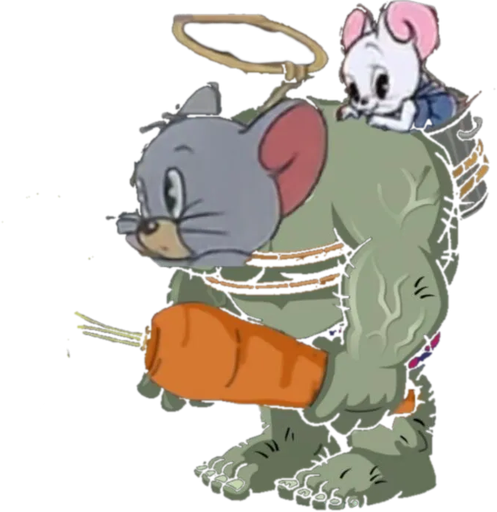
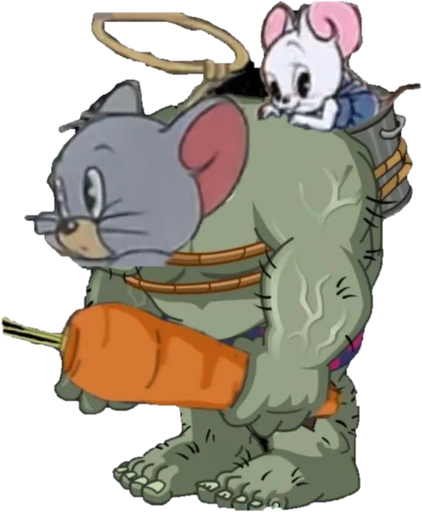
feat: security rockets, ice slow, cleaner boss cutouts

diff --git a/js/systems.js b/js/systems.js
@@ -242,11 +242,12 @@
       }
     } else {
       const hs = (p.hasteT > 0 ? (p.hasteMul || 1.5) : 1) * (p.slowT > 0 ? 0.5 : 1) * (p.stealthT > 0 ? 1.25 : 1);
-      p.x += mx * p.speed * st.speed * hs * dt;
-      p.y += my * p.speed * st.speed * hs * dt;
+      p.x += mx * p.speed * st.speed * hs * (p.slowT > 0 ? 0.6 : 1) * dt;
+      p.y += my * p.speed * st.speed * hs * (p.slowT > 0 ? 0.6 : 1) * dt;
     }
 
     resolveObstacles(g, p, p.r);
+    if (p.slowT > 0) p.slowT -= dt;
     if (p.moving) p.walk += dt * 11 * st.speed;
 
     const ow = D.weapons[p.char.weapon];
@@ -441,6 +442,14 @@
 
       if (e.spawnT > 0.2) continue;
       if (e.freezeT > 0) { e.freezeT -= dt; continue; }
+      if (e.kind === 'security') {
+        e.rocketCd = (e.rocketCd == null ? 3.5 : e.rocketCd) - dt;
+        if (e.rocketCd <= 0 && d < 520 && d > 120) {
+          e.rocketCd = 3.8;
+          const ra = Math.atan2(p.y - e.y, p.x - e.x);
+          g.projectiles.push({ x: e.x, y: e.y, vx: Math.cos(ra) * 210, vy: Math.sin(ra) * 210, r: 9, dmg: e.dmg * 0.8, from: 'enemy', kind: 'orb', life: 2.6, hit: {}, icon: 'assets/enemies/rocket_cut.png', explodeOnDeath: true, splash: 80 });
+        }
+      }
       if (e.kind === 'spike' && !e.sons && e.hp < e.maxHp * 0.5) {
         e.sons = 1;
         for (let si = 0; si < 2; si++) {

diff --git a/js/missions.js b/js/missions.js
@@ -116,6 +116,7 @@
       if (!pr.stageHit || pr.dead) continue;
       if (Math.hypot(pr.x - p.x, pr.y - p.y) < pr.r + p.r) {
         pr.dead = true; s.count++;
+        if (s.kind !== 'good') p.slowT = 1.0;
         TJ.Combat.hurtPlayer(g, 1, p.x, p.y);
         addText(g, p.x, p.y - 40, (s.kind === 'good' ? '赞美 +1 ' : '降温 +1 ') + s.count + '/' + s.need, s.kind === 'good' ? '#FFD34D' : '#9CD8FF', 16);
       }

diff --git a/tools/boss_clean.py b/tools/boss_clean.py
@@ -1,0 +1,14 @@
+import cv2, numpy as np
+from PIL import Image, ImageFilter
+for k in ['kunkun','cthulhu','giant']:
+    p=f'assets/enemies/{k}.png'
+    img=cv2.imread(p); h,w=img.shape[:2]
+    mask=np.zeros((h,w),np.uint8)
+    bg=np.zeros((1,65),np.float64); fg=np.zeros((1,65),np.float64)
+    cv2.grabCut(img,mask,(4,4,w-8,h-8),bg,fg,7,cv2.GC_INIT_WITH_RECT)
+    m=np.where((mask==cv2.GC_FGD)|(mask==cv2.GC_PR_FGD),255,0).astype('uint8')
+    m=cv2.morphologyEx(m,cv2.MORPH_CLOSE,np.ones((5,5),np.uint8))
+    alpha=Image.fromarray(m).filter(ImageFilter.MinFilter(3)).filter(ImageFilter.GaussianBlur(0.8))
+    im=Image.open(p).convert('RGBA'); im.putalpha(alpha)
+    bb=im.getbbox(); im=im.crop(bb); im.thumbnail((512,512),Image.LANCZOS)
+    im.save(f'assets/enemies/{k}_cut.png'); print(k, im.size)
